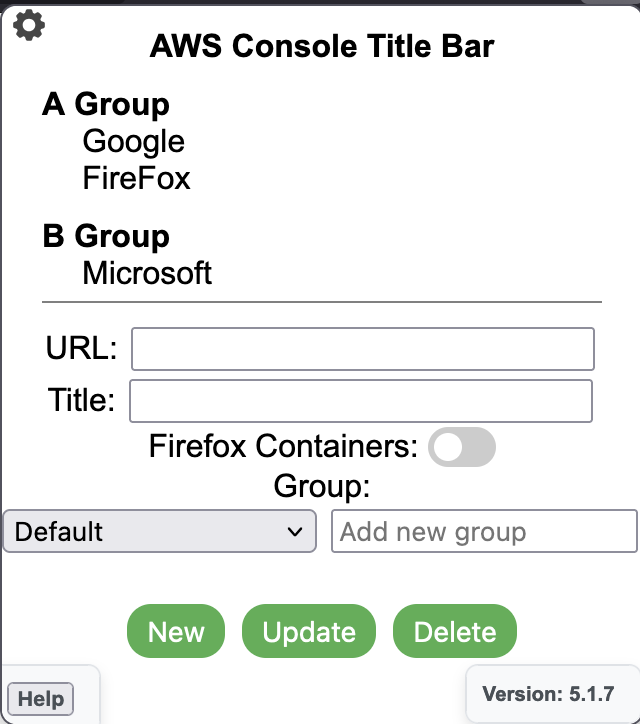
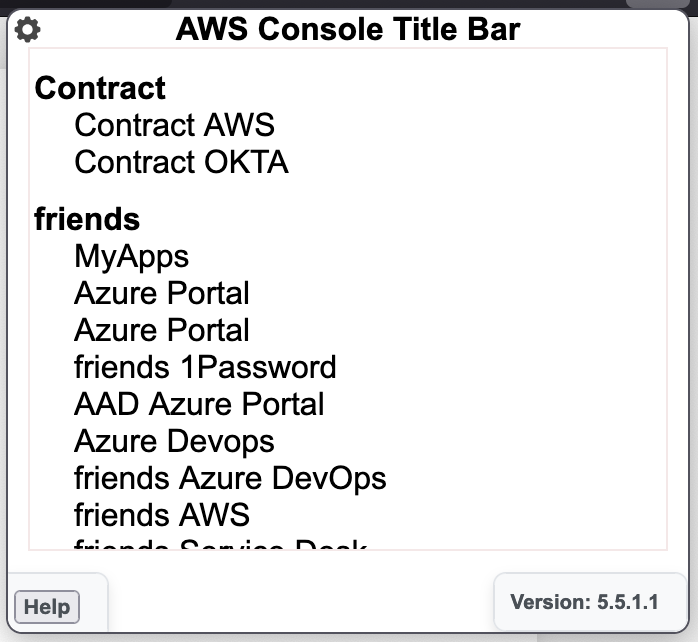
Update plugin page styling and components, modify website documentation
- Update account configuration styles and HTML
- Modify base CSS styles
- Enhance popup communications and URL form components
- Update website App component
- Update documentation with new groups image

Changed region(s): [[0.0, 0.0, 1.0, 1.0], [0.9062, 0.5607, 0.9375, 0.5919], [0.9062, 0.4361, 0.9375, 0.4673]]

diff --git a/src/plugin_page/scripts/popupcomms.tsx b/src/plugin_page/scripts/popupcomms.tsx
@@ -17,6 +17,9 @@ export function initializePopupComs() {
 
         const showSingleAccount = (accountId) => {
             const container = document.getElementById('accountConfig');
+            while (container.firstChild) {
+                container.removeChild(container.firstChild);
+            }
             getAllAccounts().then((jsonData) => {
                 const form = document.createElement('form');
                 const account = jsonData[accountId];
@@ -26,12 +29,8 @@ export function initializePopupComs() {
                 accountDiv.appendChild(nameLabel);
                 const colorInput = document.createElement('input');
                 colorInput.classList.add('color-input'); // Add class for styling
+                colorInput.dataset.coloris = '';
                 colorInput.value = account.color;
-
-                // colorInput.addEventListener('focus', function () {
-                //   hiddenBox.style.height = '150px';
-                // });
-
                 colorInput.addEventListener('change', function (event) {
                     const selectedColor = (event.target as HTMLInputElement).value;
                     const accountId = (event.target as HTMLInputElement).parentNode

diff --git a/src/plugin_page/css/account_config.css b/src/plugin_page/css/account_config.css
@@ -12,6 +12,9 @@
     /* background-color: blueviolet; */
 }
 
+
+
+
 #account-form .buttons-container {
     position: absolute;
     padding-bottom: 42px;
@@ -21,6 +24,21 @@
 }
 
 #accoutConfig {
-    background-color: black;
-    color: white ;
+    min-height: 40px;
+    min-width: 40px;
+    height: 100%; /* Ensure the container takes up space */
+    width: 100%;  /* Ensure the container takes up space */
 }
+
+
+#accoutConfig form {
+    height: 100%;
+    width: 100%;
+    min-width: 40px;
+    min-height: 40px;
+    display: flex;
+    flex-direction: column;
+    font-size: 10px;
+    /* padding-bottom: 80px; */
+    /* background-color: blueviolet; */
+  }

diff --git a/website/src/App.tsx b/website/src/App.tsx
@@ -11,9 +11,9 @@ import featureIcon1 from './assets/feature-icon1.png'
 import featureIcon2 from './assets/feature-icon2.png'
 import featureIcon3 from './assets/feature-icon3.png'
 
-import compressModeSetting from './docs/compressModeSetting.png'
-import compressModeOff from './docs/compressModeOff.png'
-import compressModeOn from './docs/compressModeOn.png'
+import compressModeSetting from './assets/compressModeSetting.png'
+import compressModeOff from './assets/compressModeOff.png'
+import compressModeOn from './assets/compressModeOn.png'
 
 function App() {
   return (

diff --git a/src/plugin_page/scripts/url_form.tsx b/src/plugin_page/scripts/url_form.tsx
@@ -1,5 +1,5 @@
 import { getAdditionalLinks, saveAdditionalLinks, onUpdated, onError,  } from '../../common/reference';
-import { urlList, cogIcon, accountConfigDiv, urlForm, groupSelect,newGroupInput} from './dom';
+import { urlList, cogIcon, urlForm, groupSelect,newGroupInput} from './dom';
 import { createContainer } from './firefox';
 import { updatePopupUrls } from './plugin_page';
 

diff --git a/src/plugin_page/css/base.css b/src/plugin_page/css/base.css
@@ -33,27 +33,4 @@ body {
   border: 1px solid rgb(68, 68, 68);
   border-radius: 1%;
 }
-/* #hiddenBox {
-  height: 0px;
-} */
-
-#accountConfig {
-  margin-top: 10px;
-  visibility: hidden;
-  text-align: center;
-}
-
-.remove-url {
-  cursor: pointer;
-  font-weight: bold;
-  color: white;
-  /* background-color: red; */
-}
-
-
-
-/* .hidden {
-  visibility: hidden;
-}
- */
 

diff --git a/src/plugin_page/inc/account_config.html b/src/plugin_page/inc/account_config.html
@@ -1,6 +1,7 @@
 <form id="account-form">
     <div id="account-management">
         <h2>AWS Account Preferences</h2>
-        <div id="accountConfig"></div>
+        <div id="accountConfig">
+        </div>
     </div>
 </form>
